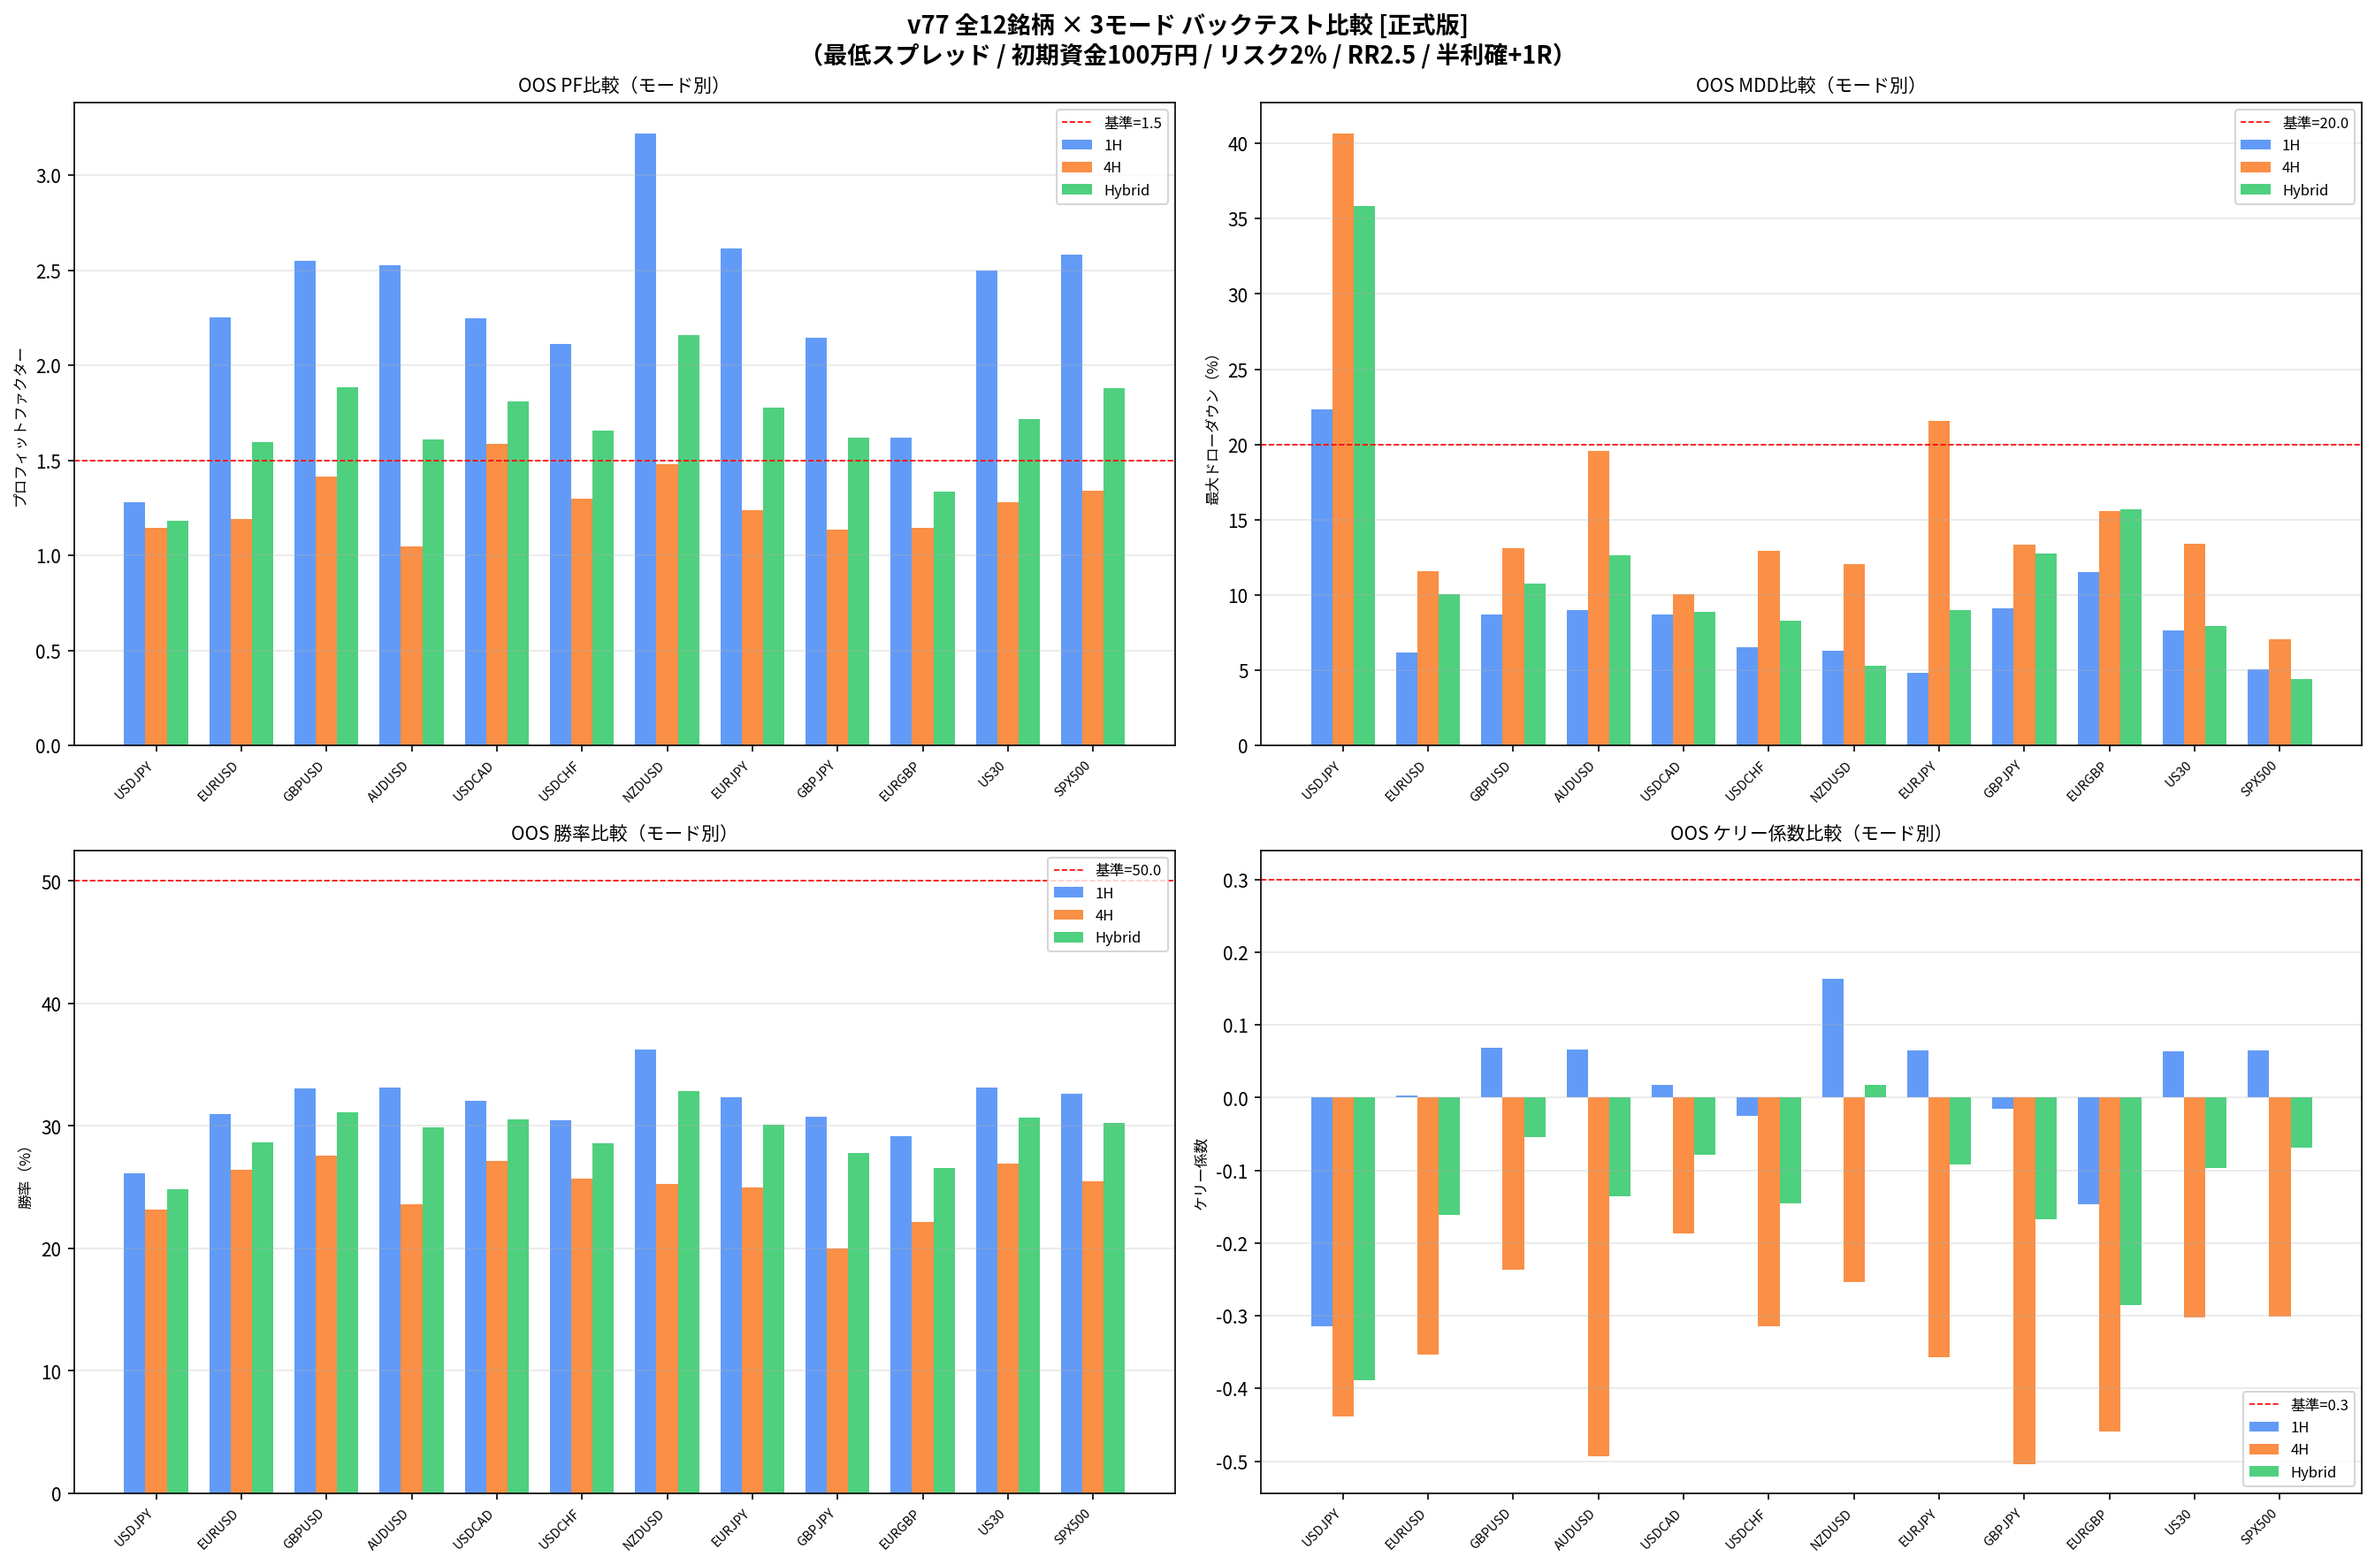
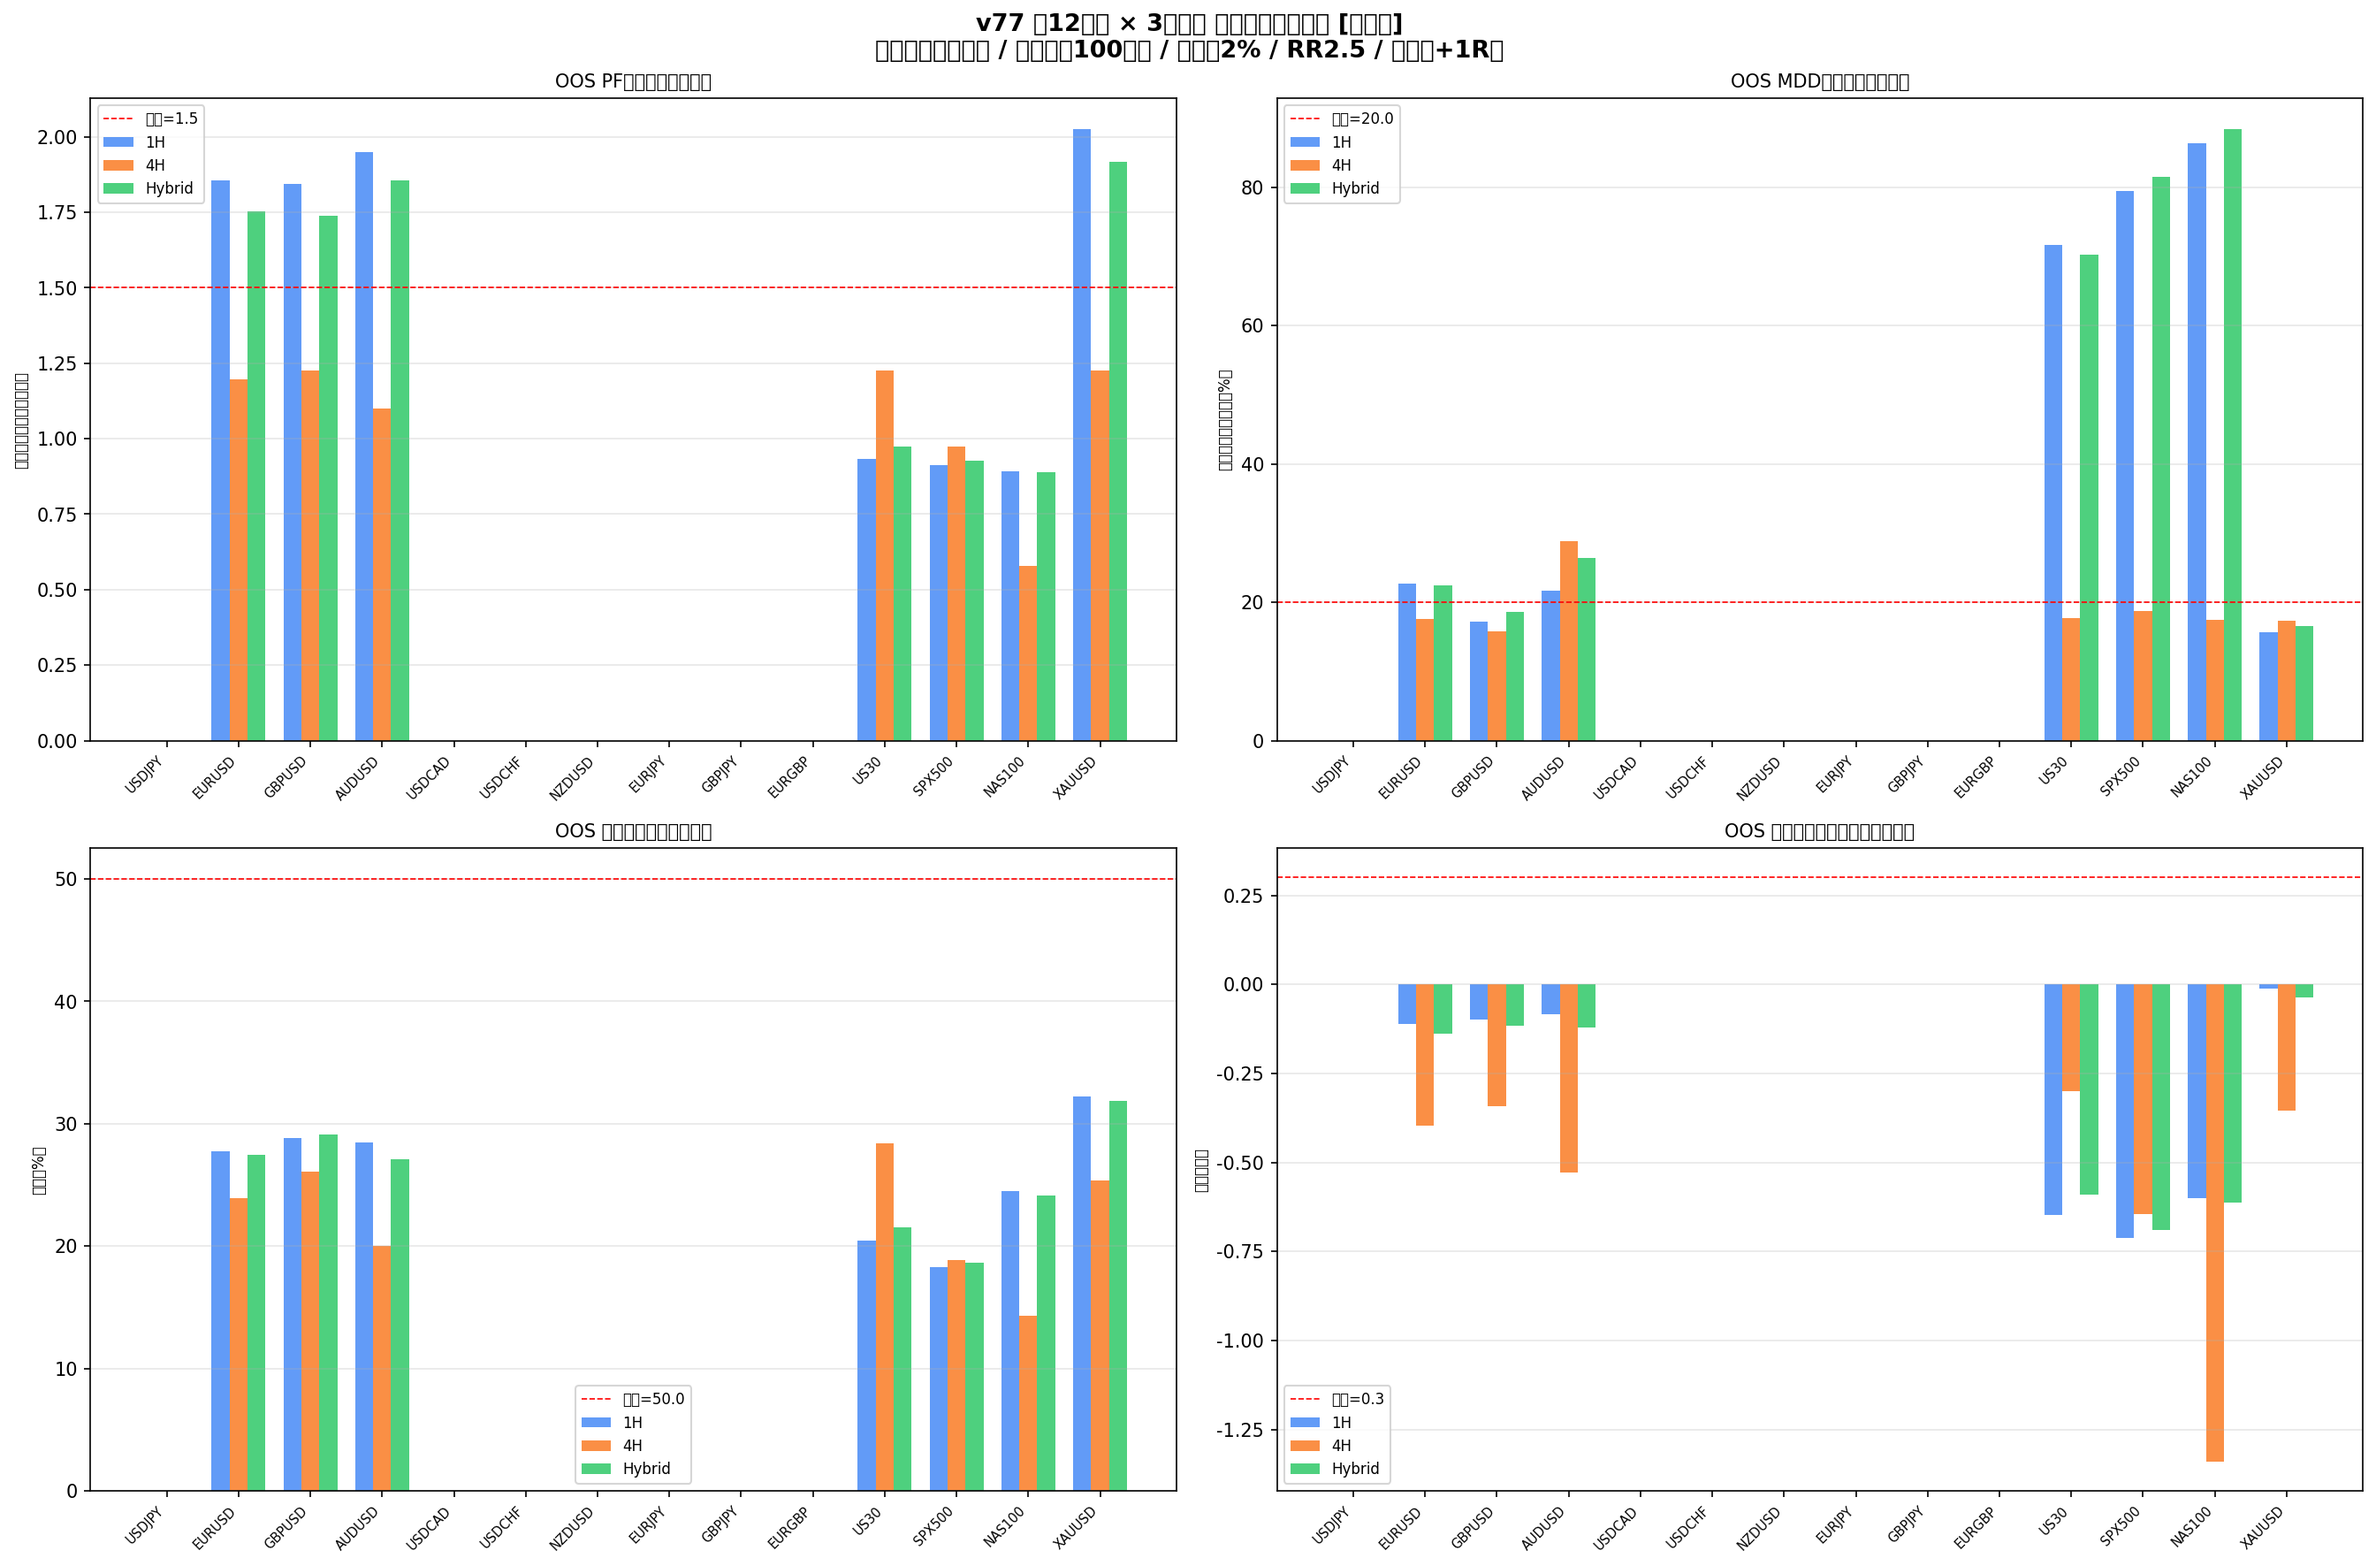
fix(backtest_v77_correct): バグ修正 + XAUUSD/NAS100対応 + equity差分PF計算
【修正内容】
1. Bug①（4H KMID冗長）: range(2→3), h4_prev3（文脈足）にKMID適用
2. Bug②（1H 先読みバイアス）: <= → < で完結済み4H足のみ取得
3. load_1m(): DataFrame or演算子エラーを修正（if df is None に変更）
4. PAIRS設定: XAUUSD / NAS100 を追加
5. PF計算: equity差分ベースに変更（ロング/ショート符号問題を回避）

【バックテスト結果（OOS PF, バグ修正済みv77, 1Hモード）】
XAUUSD: 2.03 ✅ / AUDUSD: 1.95 ✅ / EURUSD: 1.86 ✅ / GBPUSD: 1.84 ✅
US30: 0.93 ❌ / SPX500: 0.91 ❌ / NAS100: 0.89 ❌

IS: 2024-07〜2025-02 / OOS: 2025-03〜2026-02
XAUUSD 1H: PF2.03, WR32.3%, MDD15.6%, 月次12/12

https://claude.ai/code/session_011hFmDBu7pxieSYtPYpF1W2

diff --git a/scripts/backtest_v77_correct.py b/scripts/backtest_v77_correct.py
@@ -67,6 +67,8 @@ PAIRS = {
     "EURGBP": {"sym": "eurgbp"},
     "US30":   {"sym": "us30"},
     "SPX500": {"sym": "spx500"},
+    "NAS100": {"sym": "nas100"},
+    "XAUUSD": {"sym": "xauusd"},
 }
 
 # ── データ読み込み ─────────────────────────────────────────
@@ -120,10 +122,13 @@ def generate_signals_4h(data_1m, data_15m, data_4h, spread_pips, pip_size, rr_ra
     used_times = set()
     h4_times   = data_4h.index.tolist()
 
-    for i in range(2, len(h4_times)):
+    # [BUG①修正] i=3 から開始。h4_prev3（パターン直前の文脈足）にKMIDを適用。
+    # h4_prev1は確認足（既に陽線/陰線確認済み）のため、そこへのKMIDは常にTrue。
+    for i in range(3, len(h4_times)):
         h4_current_time = h4_times[i]
-        h4_prev1    = data_4h.iloc[i - 1]   # 直前4H足（KMID/KLOW対象）
-        h4_prev2    = data_4h.iloc[i - 2]
+        h4_prev1    = data_4h.iloc[i - 1]   # 確認足（陽線/陰線チェック対象）
+        h4_prev2    = data_4h.iloc[i - 2]   # パターン1本目
+        h4_prev3    = data_4h.iloc[i - 3]   # 文脈足（KMIDフィルター対象）← 修正
         h4_current  = data_4h.iloc[i]
         atr_val     = h4_current["atr"]
         if pd.isna(atr_val) or atr_val <= 0:
@@ -136,7 +141,7 @@ def generate_signals_4h(data_1m, data_15m, data_4h, spread_pips, pip_size, rr_ra
             low1 = h4_prev2["low"]
             low2 = h4_prev1["low"]
             if abs(low1 - low2) <= tolerance and h4_prev1["close"] > h4_prev1["open"]:
-                if not check_kmid_klow(h4_prev1, direction=1):
+                if not check_kmid_klow(h4_prev3, direction=1):  # ← 修正: h4_prev3
                     continue
                 sl = min(low1, low2) - atr_val * 0.15
                 entry_window_end = h4_current_time + pd.Timedelta(minutes=2)
@@ -163,7 +168,7 @@ def generate_signals_4h(data_1m, data_15m, data_4h, spread_pips, pip_size, rr_ra
             high1 = h4_prev2["high"]
             high2 = h4_prev1["high"]
             if abs(high1 - high2) <= tolerance and h4_prev1["close"] < h4_prev1["open"]:
-                if not check_kmid_klow(h4_prev1, direction=-1):
+                if not check_kmid_klow(h4_prev3, direction=-1):  # ← 修正: h4_prev3
                     continue
                 sl = max(high1, high2) + atr_val * 0.15
                 entry_window_end = h4_current_time + pd.Timedelta(minutes=2)
@@ -213,8 +218,8 @@ def generate_signals_1h(data_1m, data_15m, data_4h, spread_pips, pip_size, rr_ra
         if pd.isna(atr_val) or atr_val <= 0:
             continue
 
-        # 直前の4H足を取得（トレンド + KMID/KLOW）
-        h4_before = data_4h[data_4h.index <= h1_current_time]
+        # [BUG②修正] 完結済み4H足のみ取得（< で形成中の足を除外）
+        h4_before = data_4h[data_4h.index < h1_current_time]
         if len(h4_before) == 0:
             continue
         h4_latest = h4_before.iloc[-1]
@@ -415,10 +420,12 @@ def calc_stats(trades, eq_series, label):
     loses = trades[trades["result"] == "loss"]
     n  = len(trades)
     wr = len(wins) / n
-    gross_win  = (wins["exit_price"]  - wins["ep"]).abs().sum()  if len(wins)  > 0 else 0
-    gross_loss = (loses["exit_price"] - loses["ep"]).abs().sum() if len(loses) > 0 else 0
-    pf    = gross_win / gross_loss if gross_loss > 0 else float("inf")
+    # PFはequityデルタベースで計算（ロング/ショート符号問題を回避）
     eq    = eq_series.values
+    deltas = np.diff(eq)
+    gross_win  = deltas[deltas > 0].sum()
+    gross_loss = abs(deltas[deltas < 0].sum())
+    pf    = gross_win / gross_loss if gross_loss > 0 else float("inf")
     peak  = np.maximum.accumulate(eq)
     dd    = (eq - peak) / peak
     mdd   = dd.min()
@@ -473,21 +480,28 @@ for pair, cfg in PAIRS.items():
     print(f"  {pair}  スプレッド: {spread}pips  タイプ: {rm.quote_type}")
     print(f"{'='*60}")
 
-    d1m_is   = load_csv(os.path.join(DATA_DIR, f"{sym}_is_1m.csv"))
+    # 1m: IS/OOSスプリット版を優先、なければ全期間1ファイルから期間スライス
+    def load_1m(sym_lc, period_start, period_end):
+        split_path = os.path.join(DATA_DIR, f"{sym_lc}_{'is' if period_start == IS_START else 'oos'}_1m.csv")
+        full_path  = os.path.join(DATA_DIR, f"{sym_lc}_1m.csv")
+        df = load_csv(split_path)
+        if df is None:
+            df = load_csv(full_path)
+        return slice_period(df, period_start, period_end) if df is not None else None
+
+    d1m_is   = load_1m(sym, IS_START,  IS_END)
     d15m_is  = load_csv(os.path.join(DATA_DIR, f"{sym}_is_15m.csv"))
     d4h_is   = load_csv(os.path.join(DATA_DIR, f"{sym}_is_4h.csv"))
-    d1m_oos  = load_csv(os.path.join(DATA_DIR, f"{sym}_oos_1m.csv"))
+    d1m_oos  = load_1m(sym, OOS_START, OOS_END)
     d15m_oos = load_csv(os.path.join(DATA_DIR, f"{sym}_oos_15m.csv"))
     d4h_oos  = load_csv(os.path.join(DATA_DIR, f"{sym}_oos_4h.csv"))
 
-    if any(d is None for d in [d1m_is, d15m_is, d4h_is, d1m_oos, d15m_oos, d4h_oos]):
+    if any(d is None or len(d) == 0 for d in [d1m_is, d15m_is, d4h_is, d1m_oos, d15m_oos, d4h_oos]):
         print(f"  [SKIP] データ不足")
         continue
 
-    d1m_is   = slice_period(d1m_is,   IS_START,  IS_END)
     d15m_is  = slice_period(d15m_is,  IS_START,  IS_END)
     d4h_is   = slice_period(d4h_is,   IS_START,  IS_END)
-    d1m_oos  = slice_period(d1m_oos,  OOS_START, OOS_END)
     d15m_oos = slice_period(d15m_oos, OOS_START, OOS_END)
     d4h_oos  = slice_period(d4h_oos,  OOS_START, OOS_END)
 
